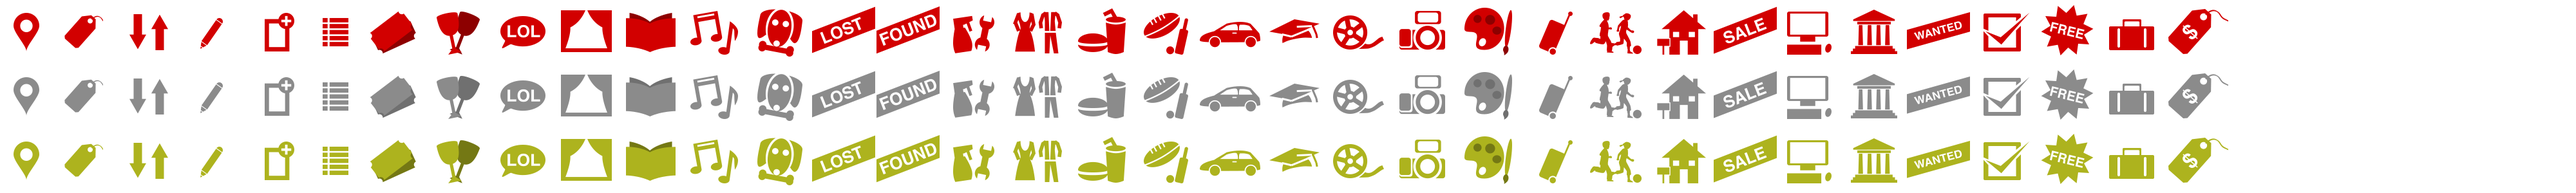
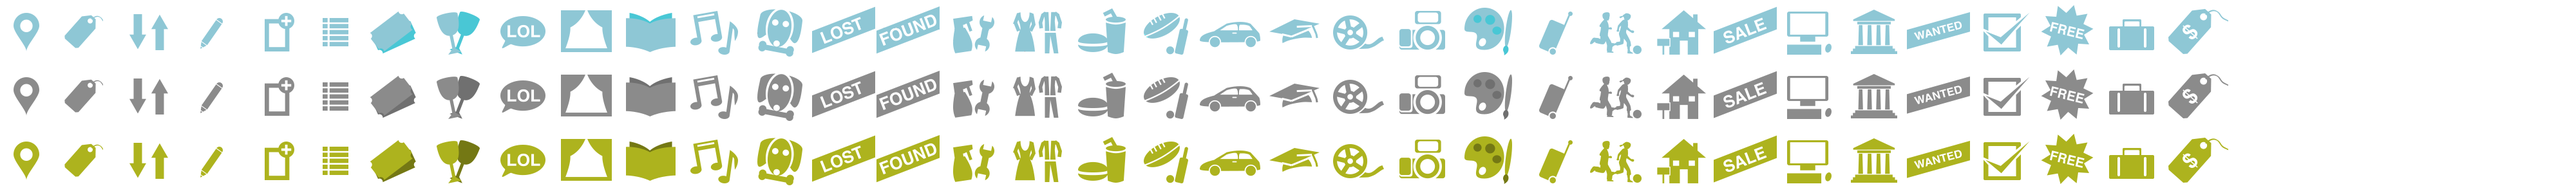
start of UI

Changed region(s): [[0.0, 0.03, 0.875, 0.3]]

diff --git a/PostaFlya/PostaFlya/Content/structure/DeskSite.css b/PostaFlya/PostaFlya/Content/structure/DeskSite.css
@@ -8,12 +8,12 @@
 
 header{
 	width:100%;
-	height:72px;
+	height:50px;
 	min-height:50px;
 	font-family:Verdana, Geneva, sans-serif;
 	font-size:11px;
 	min-width:1200px;
-	margin-bottom:60px;
+    border: 1px #D0CBC4 solid;
 	
 }
 
@@ -45,7 +45,6 @@ header{
 {
     margin-right:30px;
 	height:70px;
-	padding-top:8px;
 	z-index:500; 
     float:right;
 }
@@ -55,6 +54,7 @@ header{
 	overflow:visible;
 	float:left;
 	margin-left:15px;
+    position: relative;
 }
 
 #controls .ls-current
@@ -91,7 +91,6 @@ display:block;
     height:20px;
     line-height:20px;
     overflow: hidden;
-    border-radius: 5px;
     outline:none;
 }
 
@@ -101,13 +100,13 @@ display:block;
 	margin-top:0px;
 	width:100%;
 	background-color:transparent;
-
-	position:absolute;
+	position:relative;
 	top:70px;
 	left:0;
 	z-index:3;
 	text-align:center;
 	opacity:1;
+    clear:both;
 }
 
 #lsMain .map
@@ -170,7 +169,7 @@ display:block;
     line-height:20px;
     overflow: hidden;
     text-align:center;
-    border-radius: 5px;
+    background-color: white;
 }
 
 #create-flier-imageList .img-error
@@ -218,7 +217,6 @@ ul.flier-images li
 	margin-top:0px;
 	width:100%;
 	background-color:transparent;
-	position:absolute;
 	top:70px;
 	left:0;
 	z-index:3;

diff --git a/PostaFlya/PostaFlya/Content/themes/taskflya/DeskSite.css b/PostaFlya/PostaFlya/Content/themes/taskflya/DeskSite.css
@@ -37,7 +37,6 @@ header{
 #controls .Button{
 	background-image:url(images/icons.png);
 	background-size:2000px 150px;
-	border:1px solid #ccc;
 	outline:none;
 	color:#fff;
 	float:left;
@@ -97,12 +96,12 @@ a.toolbar-item div{
 }
 
 a.toolbar-item div.profile-edit-tool-bar-item {
-	background-image:url(images/icon_0002_Group-3.png);
+	background-image:url(images/edit-profile-btn.png);
 }
 
 a.toolbar-item div.add-flier-tool-bar-item
 {
-    background-image:url(images/icon_0000_Group-4.png);
+    background-image:url(images/post-flya-btn.png);
 }
 
 a.toolbar-item div.facebook-tool-bar-item
@@ -198,7 +197,7 @@ div#selected-item-popup-overlay, div#create-flier-popup-overlay {
 }
 .ui-slider-horizontal {
 	height: 10px;
-	background:#c00!important;
+	background:#8EC7D5!important;
 }
 .ui-slider-horizontal .ui-slider-handle {
 	top: -1px;
